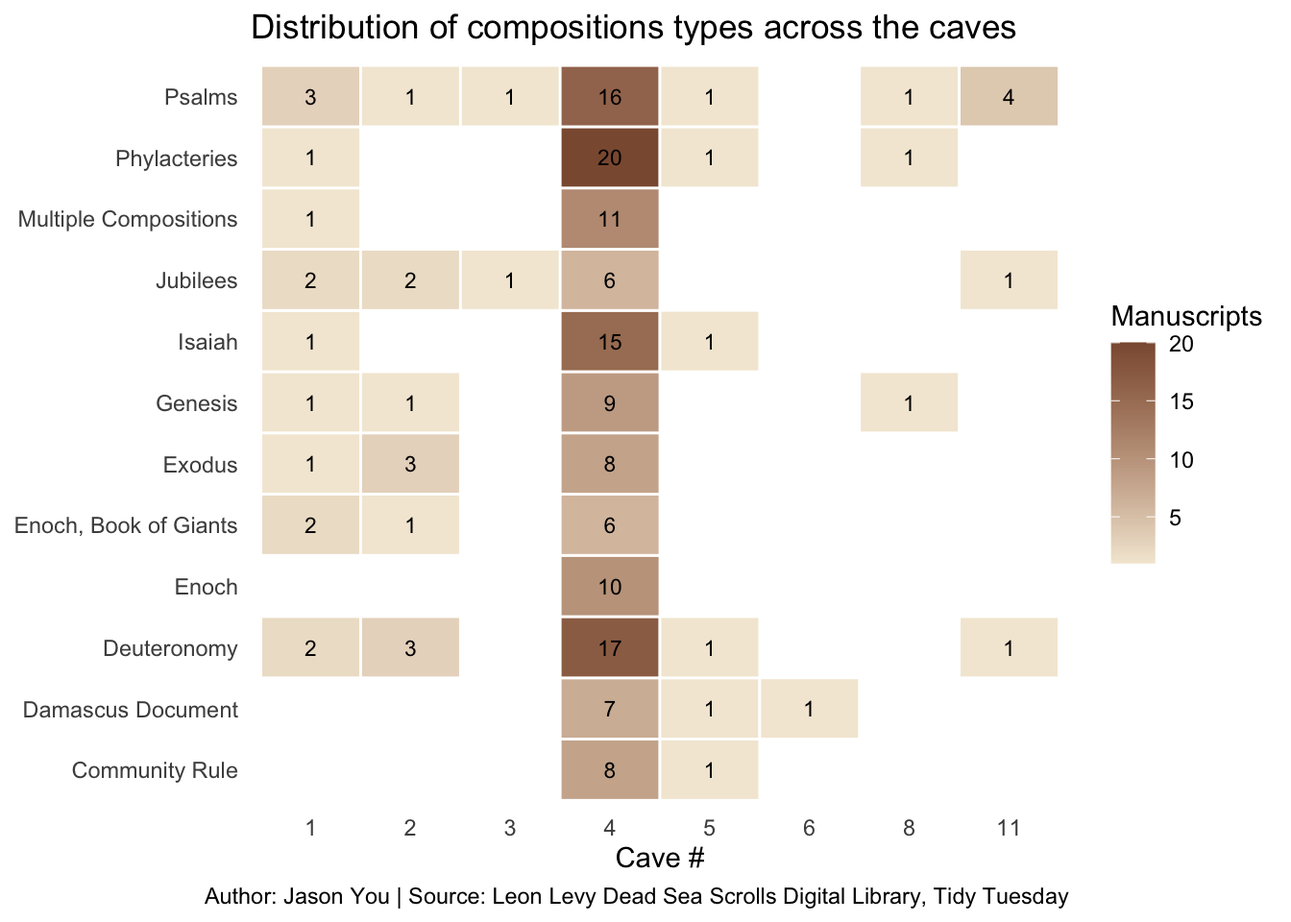
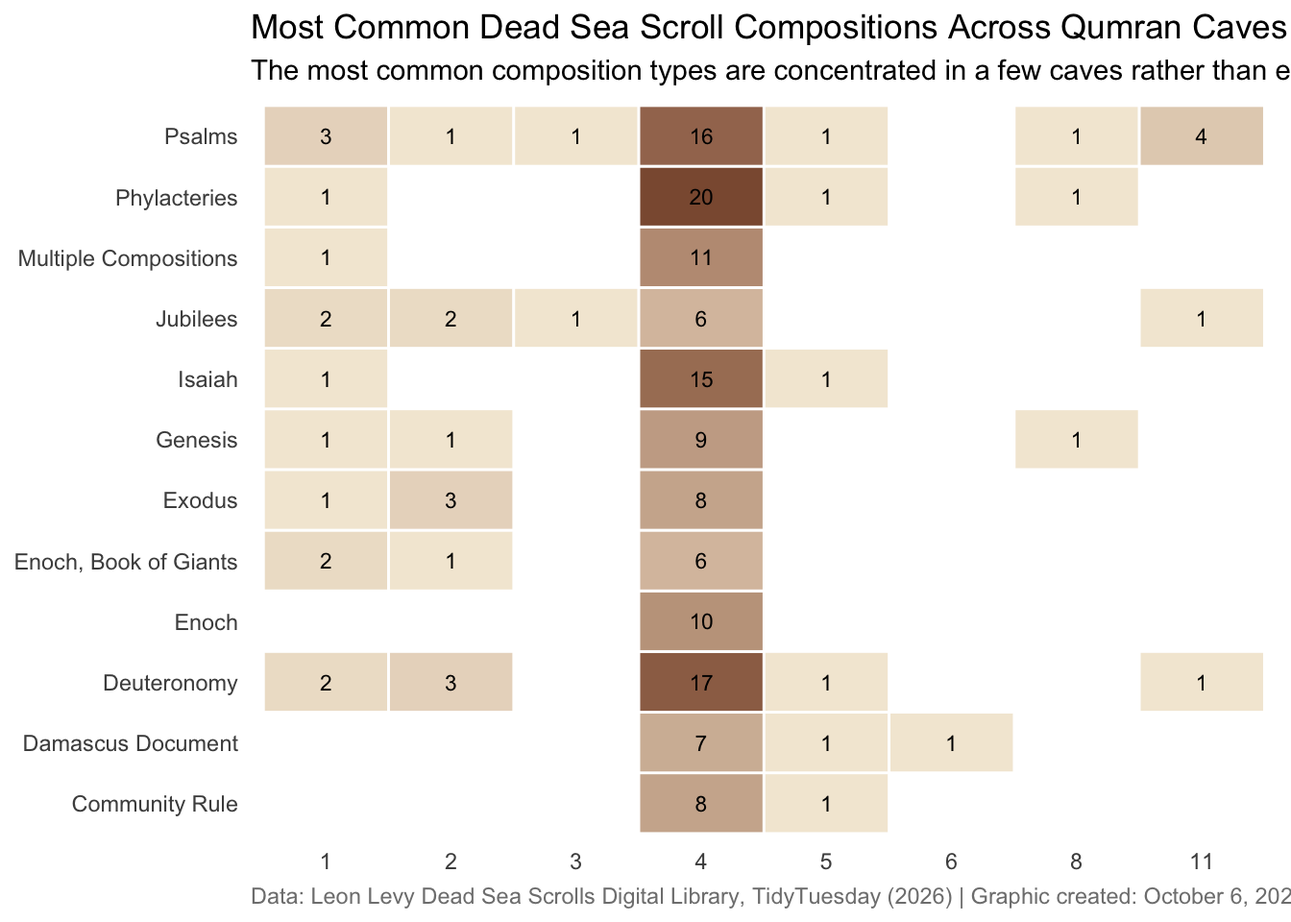
Built site for gh-pages

diff --git a/tt/hw03-tt.html b/tt/hw03-tt.html
@@ -585,34 +585,58 @@ cookieconsent.run({
 <span id="cb4-12"><a href="#cb4-12"></a><span class="fu">ggplot</span>(</span>
 <span id="cb4-13"><a href="#cb4-13"></a>  city_change,</span>
 <span id="cb4-14"><a href="#cb4-14"></a>  <span class="fu">aes</span>(</span>
-<span id="cb4-15"><a href="#cb4-15"></a>    <span class="at">y =</span> <span class="fu">fct_reorder</span>(cityName, change)</span>
-<span id="cb4-16"><a href="#cb4-16"></a>  )</span>
-<span id="cb4-17"><a href="#cb4-17"></a>) <span class="sc">+</span></span>
-<span id="cb4-18"><a href="#cb4-18"></a>  <span class="fu">geom_segment</span>(</span>
-<span id="cb4-19"><a href="#cb4-19"></a>    <span class="fu">aes</span>(</span>
-<span id="cb4-20"><a href="#cb4-20"></a>      <span class="at">x =</span> green_1990,</span>
-<span id="cb4-21"><a href="#cb4-21"></a>      <span class="at">xend =</span> green_2020,</span>
-<span id="cb4-22"><a href="#cb4-22"></a>      <span class="at">yend =</span> cityName</span>
-<span id="cb4-23"><a href="#cb4-23"></a>    ),</span>
-<span id="cb4-24"><a href="#cb4-24"></a>    <span class="at">linewidth =</span> <span class="dv">1</span>,</span>
-<span id="cb4-25"><a href="#cb4-25"></a>    <span class="at">arrow =</span> <span class="fu">arrow</span>(<span class="at">type =</span> <span class="st">"open"</span>, <span class="at">length =</span> <span class="fu">unit</span>(<span class="fl">0.1</span>, <span class="st">"inches"</span>))</span>
-<span id="cb4-26"><a href="#cb4-26"></a>  ) <span class="sc">+</span></span>
-<span id="cb4-27"><a href="#cb4-27"></a>  <span class="fu">geom_point</span>(</span>
-<span id="cb4-28"><a href="#cb4-28"></a>    <span class="fu">aes</span>(<span class="at">x =</span> green_1990),</span>
-<span id="cb4-29"><a href="#cb4-29"></a>    <span class="at">size =</span> <span class="dv">1</span></span>
-<span id="cb4-30"><a href="#cb4-30"></a>  ) <span class="sc">+</span></span>
-<span id="cb4-31"><a href="#cb4-31"></a>  <span class="fu">geom_point</span>(</span>
-<span id="cb4-32"><a href="#cb4-32"></a>    <span class="fu">aes</span>(<span class="at">x =</span> green_2020),</span>
-<span id="cb4-33"><a href="#cb4-33"></a>    <span class="at">size =</span> <span class="dv">1</span></span>
-<span id="cb4-34"><a href="#cb4-34"></a>  ) <span class="sc">+</span></span>
-<span id="cb4-35"><a href="#cb4-35"></a>  <span class="fu">labs</span>(</span>
-<span id="cb4-36"><a href="#cb4-36"></a>    <span class="at">title =</span> <span class="st">"Change in Chinese city's green-area share from 1990 to 2025"</span>,</span>
-<span id="cb4-37"><a href="#cb4-37"></a>    <span class="at">subtitle =</span> <span class="st">"Beijing is the only city that becomes greener"</span>,</span>
-<span id="cb4-38"><a href="#cb4-38"></a>    <span class="at">x =</span> <span class="st">"Green area (%)"</span>,</span>
-<span id="cb4-39"><a href="#cb4-39"></a>    <span class="at">y =</span> <span class="cn">NULL</span>,</span>
-<span id="cb4-40"><a href="#cb4-40"></a>    <span class="at">caption =</span> <span class="st">"Author: Jason You | Source: TidyTuesday, UN-Habitat Urban Indicators Database, Sept, 22nd, 2026"</span></span>
-<span id="cb4-41"><a href="#cb4-41"></a>  ) <span class="sc">+</span></span>
-<span id="cb4-42"><a href="#cb4-42"></a>  <span class="fu">theme_minimal</span>()</span></code></pre></div><button title="Copy to Clipboard" class="code-copy-button"><i class="bi"></i></button></div>
+<span id="cb4-15"><a href="#cb4-15"></a>    <span class="at">y =</span> <span class="fu">fct_reorder</span>(cityName, change),</span>
+<span id="cb4-16"><a href="#cb4-16"></a>    <span class="at">color =</span> change <span class="sc">&gt;</span> <span class="dv">0</span></span>
+<span id="cb4-17"><a href="#cb4-17"></a>  )</span>
+<span id="cb4-18"><a href="#cb4-18"></a>) <span class="sc">+</span></span>
+<span id="cb4-19"><a href="#cb4-19"></a>  <span class="fu">geom_segment</span>(</span>
+<span id="cb4-20"><a href="#cb4-20"></a>    <span class="fu">aes</span>(</span>
+<span id="cb4-21"><a href="#cb4-21"></a>      <span class="at">x =</span> green_1990,</span>
+<span id="cb4-22"><a href="#cb4-22"></a>      <span class="at">xend =</span> green_2020,</span>
+<span id="cb4-23"><a href="#cb4-23"></a>      <span class="at">yend =</span> cityName</span>
+<span id="cb4-24"><a href="#cb4-24"></a>    ),</span>
+<span id="cb4-25"><a href="#cb4-25"></a>    <span class="at">linewidth =</span> <span class="dv">1</span>,</span>
+<span id="cb4-26"><a href="#cb4-26"></a>    <span class="at">arrow =</span> <span class="fu">arrow</span>(<span class="at">type =</span> <span class="st">"open"</span>, <span class="at">length =</span> <span class="fu">unit</span>(<span class="fl">0.1</span>, <span class="st">"inches"</span>))</span>
+<span id="cb4-27"><a href="#cb4-27"></a>  ) <span class="sc">+</span></span>
+<span id="cb4-28"><a href="#cb4-28"></a>  <span class="fu">geom_text</span>(</span>
+<span id="cb4-29"><a href="#cb4-29"></a>    <span class="fu">aes</span>(</span>
+<span id="cb4-30"><a href="#cb4-30"></a>      <span class="at">x =</span> green_1990,</span>
+<span id="cb4-31"><a href="#cb4-31"></a>      <span class="at">label =</span> <span class="fu">paste0</span>(<span class="fu">round</span>(green_1990, <span class="dv">1</span>), <span class="st">"%"</span>)</span>
+<span id="cb4-32"><a href="#cb4-32"></a>    ),</span>
+<span id="cb4-33"><a href="#cb4-33"></a>    <span class="at">hjust =</span> <span class="fl">1.4</span>,</span>
+<span id="cb4-34"><a href="#cb4-34"></a>    <span class="at">size =</span> <span class="dv">3</span>,</span>
+<span id="cb4-35"><a href="#cb4-35"></a>    <span class="at">color =</span> <span class="st">"black"</span></span>
+<span id="cb4-36"><a href="#cb4-36"></a>  ) <span class="sc">+</span></span>
+<span id="cb4-37"><a href="#cb4-37"></a>  <span class="fu">geom_text</span>(</span>
+<span id="cb4-38"><a href="#cb4-38"></a>    <span class="fu">aes</span>(</span>
+<span id="cb4-39"><a href="#cb4-39"></a>      <span class="at">x =</span> green_2020,</span>
+<span id="cb4-40"><a href="#cb4-40"></a>      <span class="at">label =</span> <span class="fu">paste0</span>(<span class="fu">round</span>(green_2020, <span class="dv">1</span>), <span class="st">"%"</span>)</span>
+<span id="cb4-41"><a href="#cb4-41"></a>    ),</span>
+<span id="cb4-42"><a href="#cb4-42"></a>    <span class="at">hjust =</span> <span class="sc">-</span><span class="fl">0.4</span>,</span>
+<span id="cb4-43"><a href="#cb4-43"></a>    <span class="at">size =</span> <span class="dv">3</span>,</span>
+<span id="cb4-44"><a href="#cb4-44"></a>    <span class="at">color =</span> <span class="st">"black"</span></span>
+<span id="cb4-45"><a href="#cb4-45"></a>  ) <span class="sc">+</span></span>
+<span id="cb4-46"><a href="#cb4-46"></a>  <span class="fu">scale_color_manual</span>(</span>
+<span id="cb4-47"><a href="#cb4-47"></a>    <span class="at">values =</span> <span class="fu">c</span>(</span>
+<span id="cb4-48"><a href="#cb4-48"></a>      <span class="st">"TRUE"</span> <span class="ot">=</span> <span class="st">"darkgreen"</span>,</span>
+<span id="cb4-49"><a href="#cb4-49"></a>      <span class="st">"FALSE"</span> <span class="ot">=</span> <span class="st">"red"</span></span>
+<span id="cb4-50"><a href="#cb4-50"></a>    ),</span>
+<span id="cb4-51"><a href="#cb4-51"></a>    <span class="at">guide =</span> <span class="st">"none"</span></span>
+<span id="cb4-52"><a href="#cb4-52"></a>  ) <span class="sc">+</span></span>
+<span id="cb4-53"><a href="#cb4-53"></a>  <span class="fu">labs</span>(</span>
+<span id="cb4-54"><a href="#cb4-54"></a>    <span class="at">title =</span> <span class="st">"Change in Chinese Cities' Green-Area Share from 1990 to 2020"</span>,</span>
+<span id="cb4-55"><a href="#cb4-55"></a>    <span class="at">subtitle =</span> <span class="st">"Beijing is the only city that became greener"</span>,</span>
+<span id="cb4-56"><a href="#cb4-56"></a>    <span class="at">x =</span> <span class="cn">NULL</span>,</span>
+<span id="cb4-57"><a href="#cb4-57"></a>    <span class="at">y =</span> <span class="cn">NULL</span>,</span>
+<span id="cb4-58"><a href="#cb4-58"></a>    <span class="at">caption =</span> <span class="st">"Author: Jason You | Source: TidyTuesday, UN-Habitat Urban Indicators Database, September 22, 2026"</span></span>
+<span id="cb4-59"><a href="#cb4-59"></a>  ) <span class="sc">+</span></span>
+<span id="cb4-60"><a href="#cb4-60"></a>  <span class="fu">theme_minimal</span>() <span class="sc">+</span></span>
+<span id="cb4-61"><a href="#cb4-61"></a>  <span class="fu">theme</span>(</span>
+<span id="cb4-62"><a href="#cb4-62"></a>    <span class="at">panel.grid =</span> <span class="fu">element_blank</span>(),</span>
+<span id="cb4-63"><a href="#cb4-63"></a>    <span class="at">axis.text.x =</span> <span class="fu">element_blank</span>(),</span>
+<span id="cb4-64"><a href="#cb4-64"></a>    <span class="at">axis.ticks.x =</span> <span class="fu">element_blank</span>(),</span>
+<span id="cb4-65"><a href="#cb4-65"></a>    <span class="at">plot.caption =</span> <span class="fu">element_text</span>(<span class="at">hjust =</span> <span class="dv">0</span>)</span>
+<span id="cb4-66"><a href="#cb4-66"></a>  )</span></code></pre></div><button title="Copy to Clipboard" class="code-copy-button"><i class="bi"></i></button></div>
 </details><div class="cell-output-display">
 <div>
 <figure class="figure"><p><img src="hw03-tt_files/figure-html/unnamed-chunk-4-1.png" class="img-fluid figure-img" width="672"></p>
@@ -1174,35 +1198,59 @@ cookieconsent.run({
 <span id="cb5-80"><a href="#cb5-80"></a><span class="fu">ggplot</span>(</span>
 <span id="cb5-81"><a href="#cb5-81"></a>  city_change,</span>
 <span id="cb5-82"><a href="#cb5-82"></a>  <span class="fu">aes</span>(</span>
-<span id="cb5-83"><a href="#cb5-83"></a>    <span class="at">y =</span> <span class="fu">fct_reorder</span>(cityName, change)</span>
-<span id="cb5-84"><a href="#cb5-84"></a>  )</span>
-<span id="cb5-85"><a href="#cb5-85"></a>) <span class="sc">+</span></span>
-<span id="cb5-86"><a href="#cb5-86"></a>  <span class="fu">geom_segment</span>(</span>
-<span id="cb5-87"><a href="#cb5-87"></a>    <span class="fu">aes</span>(</span>
-<span id="cb5-88"><a href="#cb5-88"></a>      <span class="at">x =</span> green_1990,</span>
-<span id="cb5-89"><a href="#cb5-89"></a>      <span class="at">xend =</span> green_2020,</span>
-<span id="cb5-90"><a href="#cb5-90"></a>      <span class="at">yend =</span> cityName</span>
-<span id="cb5-91"><a href="#cb5-91"></a>    ),</span>
-<span id="cb5-92"><a href="#cb5-92"></a>    <span class="at">linewidth =</span> <span class="dv">1</span>,</span>
-<span id="cb5-93"><a href="#cb5-93"></a>    <span class="at">arrow =</span> <span class="fu">arrow</span>(<span class="at">type =</span> <span class="st">"open"</span>, <span class="at">length =</span> <span class="fu">unit</span>(<span class="fl">0.1</span>, <span class="st">"inches"</span>))</span>
-<span id="cb5-94"><a href="#cb5-94"></a>  ) <span class="sc">+</span></span>
-<span id="cb5-95"><a href="#cb5-95"></a>  <span class="fu">geom_point</span>(</span>
-<span id="cb5-96"><a href="#cb5-96"></a>    <span class="fu">aes</span>(<span class="at">x =</span> green_1990),</span>
-<span id="cb5-97"><a href="#cb5-97"></a>    <span class="at">size =</span> <span class="dv">1</span></span>
-<span id="cb5-98"><a href="#cb5-98"></a>  ) <span class="sc">+</span></span>
-<span id="cb5-99"><a href="#cb5-99"></a>  <span class="fu">geom_point</span>(</span>
-<span id="cb5-100"><a href="#cb5-100"></a>    <span class="fu">aes</span>(<span class="at">x =</span> green_2020),</span>
-<span id="cb5-101"><a href="#cb5-101"></a>    <span class="at">size =</span> <span class="dv">1</span></span>
-<span id="cb5-102"><a href="#cb5-102"></a>  ) <span class="sc">+</span></span>
-<span id="cb5-103"><a href="#cb5-103"></a>  <span class="fu">labs</span>(</span>
-<span id="cb5-104"><a href="#cb5-104"></a>    <span class="at">title =</span> <span class="st">"Change in Chinese city's green-area share from 1990 to 2025"</span>,</span>
-<span id="cb5-105"><a href="#cb5-105"></a>    <span class="at">subtitle =</span> <span class="st">"Beijing is the only city that becomes greener"</span>,</span>
-<span id="cb5-106"><a href="#cb5-106"></a>    <span class="at">x =</span> <span class="st">"Green area (%)"</span>,</span>
-<span id="cb5-107"><a href="#cb5-107"></a>    <span class="at">y =</span> <span class="cn">NULL</span>,</span>
-<span id="cb5-108"><a href="#cb5-108"></a>    <span class="at">caption =</span> <span class="st">"Author: Jason You | Source: TidyTuesday, UN-Habitat Urban Indicators Database, Sept, 22nd, 2026"</span></span>
-<span id="cb5-109"><a href="#cb5-109"></a>  ) <span class="sc">+</span></span>
-<span id="cb5-110"><a href="#cb5-110"></a>  <span class="fu">theme_minimal</span>()</span>
-<span id="cb5-111"><a href="#cb5-111"></a><span class="in">```</span></span>
+<span id="cb5-83"><a href="#cb5-83"></a>    <span class="at">y =</span> <span class="fu">fct_reorder</span>(cityName, change),</span>
+<span id="cb5-84"><a href="#cb5-84"></a>    <span class="at">color =</span> change <span class="sc">&gt;</span> <span class="dv">0</span></span>
+<span id="cb5-85"><a href="#cb5-85"></a>  )</span>
+<span id="cb5-86"><a href="#cb5-86"></a>) <span class="sc">+</span></span>
+<span id="cb5-87"><a href="#cb5-87"></a>  <span class="fu">geom_segment</span>(</span>
+<span id="cb5-88"><a href="#cb5-88"></a>    <span class="fu">aes</span>(</span>
+<span id="cb5-89"><a href="#cb5-89"></a>      <span class="at">x =</span> green_1990,</span>
+<span id="cb5-90"><a href="#cb5-90"></a>      <span class="at">xend =</span> green_2020,</span>
+<span id="cb5-91"><a href="#cb5-91"></a>      <span class="at">yend =</span> cityName</span>
+<span id="cb5-92"><a href="#cb5-92"></a>    ),</span>
+<span id="cb5-93"><a href="#cb5-93"></a>    <span class="at">linewidth =</span> <span class="dv">1</span>,</span>
+<span id="cb5-94"><a href="#cb5-94"></a>    <span class="at">arrow =</span> <span class="fu">arrow</span>(<span class="at">type =</span> <span class="st">"open"</span>, <span class="at">length =</span> <span class="fu">unit</span>(<span class="fl">0.1</span>, <span class="st">"inches"</span>))</span>
+<span id="cb5-95"><a href="#cb5-95"></a>  ) <span class="sc">+</span></span>
+<span id="cb5-96"><a href="#cb5-96"></a>  <span class="fu">geom_text</span>(</span>
+<span id="cb5-97"><a href="#cb5-97"></a>    <span class="fu">aes</span>(</span>
+<span id="cb5-98"><a href="#cb5-98"></a>      <span class="at">x =</span> green_1990,</span>
+<span id="cb5-99"><a href="#cb5-99"></a>      <span class="at">label =</span> <span class="fu">paste0</span>(<span class="fu">round</span>(green_1990, <span class="dv">1</span>), <span class="st">"%"</span>)</span>
+<span id="cb5-100"><a href="#cb5-100"></a>    ),</span>
+<span id="cb5-101"><a href="#cb5-101"></a>    <span class="at">hjust =</span> <span class="fl">1.4</span>,</span>
+<span id="cb5-102"><a href="#cb5-102"></a>    <span class="at">size =</span> <span class="dv">3</span>,</span>
+<span id="cb5-103"><a href="#cb5-103"></a>    <span class="at">color =</span> <span class="st">"black"</span></span>
+<span id="cb5-104"><a href="#cb5-104"></a>  ) <span class="sc">+</span></span>
+<span id="cb5-105"><a href="#cb5-105"></a>  <span class="fu">geom_text</span>(</span>
+<span id="cb5-106"><a href="#cb5-106"></a>    <span class="fu">aes</span>(</span>
+<span id="cb5-107"><a href="#cb5-107"></a>      <span class="at">x =</span> green_2020,</span>
+<span id="cb5-108"><a href="#cb5-108"></a>      <span class="at">label =</span> <span class="fu">paste0</span>(<span class="fu">round</span>(green_2020, <span class="dv">1</span>), <span class="st">"%"</span>)</span>
+<span id="cb5-109"><a href="#cb5-109"></a>    ),</span>
+<span id="cb5-110"><a href="#cb5-110"></a>    <span class="at">hjust =</span> <span class="sc">-</span><span class="fl">0.4</span>,</span>
+<span id="cb5-111"><a href="#cb5-111"></a>    <span class="at">size =</span> <span class="dv">3</span>,</span>
+<span id="cb5-112"><a href="#cb5-112"></a>    <span class="at">color =</span> <span class="st">"black"</span></span>
+<span id="cb5-113"><a href="#cb5-113"></a>  ) <span class="sc">+</span></span>
+<span id="cb5-114"><a href="#cb5-114"></a>  <span class="fu">scale_color_manual</span>(</span>
+<span id="cb5-115"><a href="#cb5-115"></a>    <span class="at">values =</span> <span class="fu">c</span>(</span>
+<span id="cb5-116"><a href="#cb5-116"></a>      <span class="st">"TRUE"</span> <span class="ot">=</span> <span class="st">"darkgreen"</span>,</span>
+<span id="cb5-117"><a href="#cb5-117"></a>      <span class="st">"FALSE"</span> <span class="ot">=</span> <span class="st">"red"</span></span>
+<span id="cb5-118"><a href="#cb5-118"></a>    ),</span>
+<span id="cb5-119"><a href="#cb5-119"></a>    <span class="at">guide =</span> <span class="st">"none"</span></span>
+<span id="cb5-120"><a href="#cb5-120"></a>  ) <span class="sc">+</span></span>
+<span id="cb5-121"><a href="#cb5-121"></a>  <span class="fu">labs</span>(</span>
+<span id="cb5-122"><a href="#cb5-122"></a>    <span class="at">title =</span> <span class="st">"Change in Chinese Cities' Green-Area Share from 1990 to 2020"</span>,</span>
+<span id="cb5-123"><a href="#cb5-123"></a>    <span class="at">subtitle =</span> <span class="st">"Beijing is the only city that became greener"</span>,</span>
+<span id="cb5-124"><a href="#cb5-124"></a>    <span class="at">x =</span> <span class="cn">NULL</span>,</span>
+<span id="cb5-125"><a href="#cb5-125"></a>    <span class="at">y =</span> <span class="cn">NULL</span>,</span>
+<span id="cb5-126"><a href="#cb5-126"></a>    <span class="at">caption =</span> <span class="st">"Author: Jason You | Source: TidyTuesday, UN-Habitat Urban Indicators Database, September 22, 2026"</span></span>
+<span id="cb5-127"><a href="#cb5-127"></a>  ) <span class="sc">+</span></span>
+<span id="cb5-128"><a href="#cb5-128"></a>  <span class="fu">theme_minimal</span>() <span class="sc">+</span></span>
+<span id="cb5-129"><a href="#cb5-129"></a>  <span class="fu">theme</span>(</span>
+<span id="cb5-130"><a href="#cb5-130"></a>    <span class="at">panel.grid =</span> <span class="fu">element_blank</span>(),</span>
+<span id="cb5-131"><a href="#cb5-131"></a>    <span class="at">axis.text.x =</span> <span class="fu">element_blank</span>(),</span>
+<span id="cb5-132"><a href="#cb5-132"></a>    <span class="at">axis.ticks.x =</span> <span class="fu">element_blank</span>(),</span>
+<span id="cb5-133"><a href="#cb5-133"></a>    <span class="at">plot.caption =</span> <span class="fu">element_text</span>(<span class="at">hjust =</span> <span class="dv">0</span>)</span>
+<span id="cb5-134"><a href="#cb5-134"></a>  )</span>
+<span id="cb5-135"><a href="#cb5-135"></a><span class="in">```</span></span>
 </code></pre></div><button title="Copy to Clipboard" class="code-copy-button" data-in-quarto-modal=""><i class="bi"></i></button></div>
 </div></div></div></div></div>
 </div> <!-- /content -->

diff --git a/tt/hw02-tt.html b/tt/hw02-tt.html
@@ -600,21 +600,28 @@ cookieconsent.run({
 <span id="cb4-8"><a href="#cb4-8"></a></span>
 <span id="cb4-9"><a href="#cb4-9"></a><span class="fu">ggplot</span>(</span>
 <span id="cb4-10"><a href="#cb4-10"></a>  cave_compositions,</span>
-<span id="cb4-11"><a href="#cb4-11"></a>  <span class="fu">aes</span>(<span class="at">x =</span> <span class="fu">factor</span>(cave), <span class="at">y =</span> composition, <span class="at">fill =</span> n)) <span class="sc">+</span></span>
-<span id="cb4-12"><a href="#cb4-12"></a>  <span class="fu">geom_tile</span>(<span class="at">color =</span> <span class="st">"white"</span>, <span class="at">linewidth =</span> <span class="fl">0.5</span>) <span class="sc">+</span></span>
-<span id="cb4-13"><a href="#cb4-13"></a>  <span class="fu">geom_text</span>(<span class="fu">aes</span>(<span class="at">label =</span> n), <span class="at">size =</span> <span class="dv">3</span>) <span class="sc">+</span></span>
-<span id="cb4-14"><a href="#cb4-14"></a>  <span class="fu">scale_fill_gradient</span>(<span class="at">low =</span> <span class="st">"#F3E9D7"</span>, <span class="at">high =</span> <span class="st">"#8C5A3F"</span>) <span class="sc">+</span></span>
-<span id="cb4-15"><a href="#cb4-15"></a>  <span class="fu">labs</span>(</span>
-<span id="cb4-16"><a href="#cb4-16"></a>    <span class="at">title =</span> <span class="st">"Distribution of compositions types across the caves"</span>,</span>
-<span id="cb4-17"><a href="#cb4-17"></a>    <span class="at">x =</span> <span class="st">"Cave #"</span>,</span>
-<span id="cb4-18"><a href="#cb4-18"></a>    <span class="at">y =</span> <span class="cn">NULL</span>,</span>
-<span id="cb4-19"><a href="#cb4-19"></a>    <span class="at">fill =</span> <span class="st">"Manuscripts"</span>,</span>
-<span id="cb4-20"><a href="#cb4-20"></a>    <span class="at">caption =</span> <span class="st">"Author: Jason You | Source: Leon Levy Dead Sea Scrolls Digital Library, Tidy Tuesday"</span></span>
-<span id="cb4-21"><a href="#cb4-21"></a>  ) <span class="sc">+</span></span>
-<span id="cb4-22"><a href="#cb4-22"></a>  <span class="fu">theme_minimal</span>() <span class="sc">+</span></span>
-<span id="cb4-23"><a href="#cb4-23"></a>  <span class="fu">theme</span>(</span>
-<span id="cb4-24"><a href="#cb4-24"></a>    <span class="at">panel.grid =</span> <span class="fu">element_blank</span>()</span>
-<span id="cb4-25"><a href="#cb4-25"></a>  )</span></code></pre></div><button title="Copy to Clipboard" class="code-copy-button"><i class="bi"></i></button></div>
+<span id="cb4-11"><a href="#cb4-11"></a>  <span class="fu">aes</span>(<span class="at">x =</span> <span class="fu">factor</span>(cave), <span class="at">y =</span> composition, <span class="at">fill =</span> n)</span>
+<span id="cb4-12"><a href="#cb4-12"></a>) <span class="sc">+</span></span>
+<span id="cb4-13"><a href="#cb4-13"></a>  <span class="fu">geom_tile</span>(<span class="at">color =</span> <span class="st">"white"</span>, <span class="at">linewidth =</span> <span class="fl">0.5</span>) <span class="sc">+</span></span>
+<span id="cb4-14"><a href="#cb4-14"></a>  <span class="fu">geom_text</span>(<span class="fu">aes</span>(<span class="at">label =</span> n), <span class="at">size =</span> <span class="dv">3</span>) <span class="sc">+</span></span>
+<span id="cb4-15"><a href="#cb4-15"></a>  <span class="fu">scale_fill_gradient</span>(<span class="at">low =</span> <span class="st">"#F3E9D7"</span>, <span class="at">high =</span> <span class="st">"#8C5A3F"</span>) <span class="sc">+</span></span>
+<span id="cb4-16"><a href="#cb4-16"></a>  <span class="fu">labs</span>(</span>
+<span id="cb4-17"><a href="#cb4-17"></a>    <span class="at">title =</span> <span class="st">"Most Common Dead Sea Scroll Compositions Across Qumran Caves"</span>,</span>
+<span id="cb4-18"><a href="#cb4-18"></a>    <span class="at">subtitle =</span> <span class="st">"The most common composition types are concentrated in a few caves rather than evenly distributed across Qumran."</span>,</span>
+<span id="cb4-19"><a href="#cb4-19"></a>    <span class="at">x =</span> <span class="cn">NULL</span>,</span>
+<span id="cb4-20"><a href="#cb4-20"></a>    <span class="at">y =</span> <span class="cn">NULL</span>,</span>
+<span id="cb4-21"><a href="#cb4-21"></a>    <span class="at">fill =</span> <span class="cn">NULL</span>,</span>
+<span id="cb4-22"><a href="#cb4-22"></a>    <span class="at">caption =</span> <span class="st">"Data: Leon Levy Dead Sea Scrolls Digital Library, TidyTuesday (2026) | Graphic created: October 6, 2026 | Author: Jason You"</span></span>
+<span id="cb4-23"><a href="#cb4-23"></a>  ) <span class="sc">+</span></span>
+<span id="cb4-24"><a href="#cb4-24"></a>  <span class="fu">guides</span>(<span class="at">fill =</span> <span class="st">"none"</span>) <span class="sc">+</span></span>
+<span id="cb4-25"><a href="#cb4-25"></a>  <span class="fu">theme_minimal</span>() <span class="sc">+</span></span>
+<span id="cb4-26"><a href="#cb4-26"></a>  <span class="fu">theme</span>(</span>
+<span id="cb4-27"><a href="#cb4-27"></a>    <span class="at">panel.grid =</span> <span class="fu">element_blank</span>(),</span>
+<span id="cb4-28"><a href="#cb4-28"></a>    <span class="at">plot.caption =</span> <span class="fu">element_text</span>(</span>
+<span id="cb4-29"><a href="#cb4-29"></a>      <span class="at">hjust =</span> <span class="dv">0</span>,</span>
+<span id="cb4-30"><a href="#cb4-30"></a>      <span class="at">color =</span> <span class="st">"gray50"</span></span>
+<span id="cb4-31"><a href="#cb4-31"></a>    )</span>
+<span id="cb4-32"><a href="#cb4-32"></a>  )</span></code></pre></div><button title="Copy to Clipboard" class="code-copy-button"><i class="bi"></i></button></div>
 </details><div class="cell-output-display">
 <div>
 <figure class="figure"><p><img src="hw02-tt_files/figure-html/unnamed-chunk-3-1.png" class="img-fluid figure-img" width="672"></p>
@@ -1179,24 +1186,31 @@ cookieconsent.run({
 <span id="cb5-75"><a href="#cb5-75"></a></span>
 <span id="cb5-76"><a href="#cb5-76"></a><span class="fu">ggplot</span>(</span>
 <span id="cb5-77"><a href="#cb5-77"></a>  cave_compositions,</span>
-<span id="cb5-78"><a href="#cb5-78"></a>  <span class="fu">aes</span>(<span class="at">x =</span> <span class="fu">factor</span>(cave), <span class="at">y =</span> composition, <span class="at">fill =</span> n)) <span class="sc">+</span></span>
-<span id="cb5-79"><a href="#cb5-79"></a>  <span class="fu">geom_tile</span>(<span class="at">color =</span> <span class="st">"white"</span>, <span class="at">linewidth =</span> <span class="fl">0.5</span>) <span class="sc">+</span></span>
-<span id="cb5-80"><a href="#cb5-80"></a>  <span class="fu">geom_text</span>(<span class="fu">aes</span>(<span class="at">label =</span> n), <span class="at">size =</span> <span class="dv">3</span>) <span class="sc">+</span></span>
-<span id="cb5-81"><a href="#cb5-81"></a>  <span class="fu">scale_fill_gradient</span>(<span class="at">low =</span> <span class="st">"#F3E9D7"</span>, <span class="at">high =</span> <span class="st">"#8C5A3F"</span>) <span class="sc">+</span></span>
-<span id="cb5-82"><a href="#cb5-82"></a>  <span class="fu">labs</span>(</span>
-<span id="cb5-83"><a href="#cb5-83"></a>    <span class="at">title =</span> <span class="st">"Distribution of compositions types across the caves"</span>,</span>
-<span id="cb5-84"><a href="#cb5-84"></a>    <span class="at">x =</span> <span class="st">"Cave #"</span>,</span>
-<span id="cb5-85"><a href="#cb5-85"></a>    <span class="at">y =</span> <span class="cn">NULL</span>,</span>
-<span id="cb5-86"><a href="#cb5-86"></a>    <span class="at">fill =</span> <span class="st">"Manuscripts"</span>,</span>
-<span id="cb5-87"><a href="#cb5-87"></a>    <span class="at">caption =</span> <span class="st">"Author: Jason You | Source: Leon Levy Dead Sea Scrolls Digital Library, Tidy Tuesday"</span></span>
-<span id="cb5-88"><a href="#cb5-88"></a>  ) <span class="sc">+</span></span>
-<span id="cb5-89"><a href="#cb5-89"></a>  <span class="fu">theme_minimal</span>() <span class="sc">+</span></span>
-<span id="cb5-90"><a href="#cb5-90"></a>  <span class="fu">theme</span>(</span>
-<span id="cb5-91"><a href="#cb5-91"></a>    <span class="at">panel.grid =</span> <span class="fu">element_blank</span>()</span>
-<span id="cb5-92"><a href="#cb5-92"></a>  )</span>
-<span id="cb5-93"><a href="#cb5-93"></a><span class="in">```</span></span>
-<span id="cb5-94"><a href="#cb5-94"></a></span>
-<span id="cb5-95"><a href="#cb5-95"></a><span class="at">&gt; This graph shows that cave 4 have the most amount of scrolls, with all of the types of compositions and the most amount of each of them, while Cave 6 have the least amount of scolls, only one Damascus Document.</span></span>
+<span id="cb5-78"><a href="#cb5-78"></a>  <span class="fu">aes</span>(<span class="at">x =</span> <span class="fu">factor</span>(cave), <span class="at">y =</span> composition, <span class="at">fill =</span> n)</span>
+<span id="cb5-79"><a href="#cb5-79"></a>) <span class="sc">+</span></span>
+<span id="cb5-80"><a href="#cb5-80"></a>  <span class="fu">geom_tile</span>(<span class="at">color =</span> <span class="st">"white"</span>, <span class="at">linewidth =</span> <span class="fl">0.5</span>) <span class="sc">+</span></span>
+<span id="cb5-81"><a href="#cb5-81"></a>  <span class="fu">geom_text</span>(<span class="fu">aes</span>(<span class="at">label =</span> n), <span class="at">size =</span> <span class="dv">3</span>) <span class="sc">+</span></span>
+<span id="cb5-82"><a href="#cb5-82"></a>  <span class="fu">scale_fill_gradient</span>(<span class="at">low =</span> <span class="st">"#F3E9D7"</span>, <span class="at">high =</span> <span class="st">"#8C5A3F"</span>) <span class="sc">+</span></span>
+<span id="cb5-83"><a href="#cb5-83"></a>  <span class="fu">labs</span>(</span>
+<span id="cb5-84"><a href="#cb5-84"></a>    <span class="at">title =</span> <span class="st">"Most Common Dead Sea Scroll Compositions Across Qumran Caves"</span>,</span>
+<span id="cb5-85"><a href="#cb5-85"></a>    <span class="at">subtitle =</span> <span class="st">"The most common composition types are concentrated in a few caves rather than evenly distributed across Qumran."</span>,</span>
+<span id="cb5-86"><a href="#cb5-86"></a>    <span class="at">x =</span> <span class="cn">NULL</span>,</span>
+<span id="cb5-87"><a href="#cb5-87"></a>    <span class="at">y =</span> <span class="cn">NULL</span>,</span>
+<span id="cb5-88"><a href="#cb5-88"></a>    <span class="at">fill =</span> <span class="cn">NULL</span>,</span>
+<span id="cb5-89"><a href="#cb5-89"></a>    <span class="at">caption =</span> <span class="st">"Data: Leon Levy Dead Sea Scrolls Digital Library, TidyTuesday (2026) | Graphic created: October 6, 2026 | Author: Jason You"</span></span>
+<span id="cb5-90"><a href="#cb5-90"></a>  ) <span class="sc">+</span></span>
+<span id="cb5-91"><a href="#cb5-91"></a>  <span class="fu">guides</span>(<span class="at">fill =</span> <span class="st">"none"</span>) <span class="sc">+</span></span>
+<span id="cb5-92"><a href="#cb5-92"></a>  <span class="fu">theme_minimal</span>() <span class="sc">+</span></span>
+<span id="cb5-93"><a href="#cb5-93"></a>  <span class="fu">theme</span>(</span>
+<span id="cb5-94"><a href="#cb5-94"></a>    <span class="at">panel.grid =</span> <span class="fu">element_blank</span>(),</span>
+<span id="cb5-95"><a href="#cb5-95"></a>    <span class="at">plot.caption =</span> <span class="fu">element_text</span>(</span>
+<span id="cb5-96"><a href="#cb5-96"></a>      <span class="at">hjust =</span> <span class="dv">0</span>,</span>
+<span id="cb5-97"><a href="#cb5-97"></a>      <span class="at">color =</span> <span class="st">"gray50"</span></span>
+<span id="cb5-98"><a href="#cb5-98"></a>    )</span>
+<span id="cb5-99"><a href="#cb5-99"></a>  )</span>
+<span id="cb5-100"><a href="#cb5-100"></a><span class="in">```</span></span>
+<span id="cb5-101"><a href="#cb5-101"></a></span>
+<span id="cb5-102"><a href="#cb5-102"></a><span class="at">&gt; This graph shows that cave 4 have the most amount of scrolls, with all of the types of compositions and the most amount of each of them, while Cave 6 have the least amount of scolls, only one Damascus Document.</span></span>
 </code></pre></div><button title="Copy to Clipboard" class="code-copy-button" data-in-quarto-modal=""><i class="bi"></i></button></div>
 </div></div></div></div></div>
 </div> <!-- /content -->

diff --git a/ica/07-wrangling-2.html b/ica/07-wrangling-2.html
@@ -683,8 +683,8 @@ cookieconsent.run({
 <div class="cell">
 <details class="code-fold"><summary>Code</summary><div class="code-copy-outer-scaffold"><div class="sourceCode cell-code" id="cb33"><pre class="sourceCode numberSource r number-lines code-with-copy"><code class="sourceCode r"><span id="cb33-1"><a href="#cb33-1"></a><span class="fu">str_view</span>(string1, <span class="at">html =</span> <span class="cn">TRUE</span>)</span></code></pre></div><button title="Copy to Clipboard" class="code-copy-button"><i class="bi"></i></button></div>
 </details><div class="cell-output-display">
-<div class="str_view html-widget html-fill-item" id="htmlwidget-0c3f37f5a0ee5536f193" style="width:960px;height:100%;"></div>
-<script type="application/json" data-for="htmlwidget-0c3f37f5a0ee5536f193">{"x":{"html":"<ul>\n  <li><pre>Record temp:<span class='special'>\t<\/span>102<\/pre><\/li>\n<\/ul>"},"evals":[],"jsHooks":[]}</script>
+<div class="str_view html-widget html-fill-item" id="htmlwidget-ee33703f263d8757a34f" style="width:960px;height:100%;"></div>
+<script type="application/json" data-for="htmlwidget-ee33703f263d8757a34f">{"x":{"html":"<ul>\n  <li><pre>Record temp:<span class='special'>\t<\/span>102<\/pre><\/li>\n<\/ul>"},"evals":[],"jsHooks":[]}</script>
 </div>
 </div>
 </section><section id="combine" class="level3"><h3 class="anchored" data-anchor-id="combine">Combine</h3>
@@ -853,32 +853,32 @@ cookieconsent.run({
 <span id="cb59-2"><a href="#cb59-2"></a><span class="fu">data</span>(fruit)</span>
 <span id="cb59-3"><a href="#cb59-3"></a><span class="fu">sample</span>(fruit, <span class="dv">10</span>)</span></code></pre></div><button title="Copy to Clipboard" class="code-copy-button"><i class="bi"></i></button></div>
 </details><div class="cell-output cell-output-stdout">
-<pre><code> [1] "lemon"        "jambul"       "goji berry"   "raisin"       "mango"       
- [6] "grapefruit"   "kumquat"      "date"         "canary melon" "rock melon"  </code></pre>
+<pre><code> [1] "peach"        "chili pepper" "damson"       "durian"       "goji berry"  
+ [6] "clementine"   "currant"      "gooseberry"   "apricot"      "jujube"      </code></pre>
 </div>
 </div>
 <div class="cell">
 <details class="code-fold"><summary>Code</summary><div class="code-copy-outer-scaffold"><div class="sourceCode cell-code" id="cb61"><pre class="sourceCode numberSource r number-lines code-with-copy"><code class="sourceCode r"><span id="cb61-1"><a href="#cb61-1"></a><span class="fu">data</span>(words)</span>
 <span id="cb61-2"><a href="#cb61-2"></a><span class="fu">sample</span>(words, <span class="dv">10</span>)</span></code></pre></div><button title="Copy to Clipboard" class="code-copy-button"><i class="bi"></i></button></div>
 </details><div class="cell-output cell-output-stdout">
-<pre><code> [1] "well"       "case"       "thou"       "america"    "close"     
- [6] "of"         "shut"       "protect"    "full"       "difference"</code></pre>
+<pre><code> [1] "build"       "opportunity" "plan"        "be"          "individual" 
+ [6] "remember"    "arrange"     "far"         "eye"         "slow"       </code></pre>
 </div>
 </div>
 <div class="cell">
 <details class="code-fold"><summary>Code</summary><div class="code-copy-outer-scaffold"><div class="sourceCode cell-code" id="cb63"><pre class="sourceCode numberSource r number-lines code-with-copy"><code class="sourceCode r"><span id="cb63-1"><a href="#cb63-1"></a><span class="fu">data</span>(sentences)</span>
 <span id="cb63-2"><a href="#cb63-2"></a><span class="fu">sample</span>(sentences, <span class="dv">10</span>)</span></code></pre></div><button title="Copy to Clipboard" class="code-copy-button"><i class="bi"></i></button></div>
 </details><div class="cell-output cell-output-stdout">
-<pre><code> [1] "The theft of the pearl pin was kept secret."
- [2] "Burn peat after the logs give out."         
- [3] "A clean neck means a neat collar."          
- [4] "The boss ran the show with a watchful eye." 
- [5] "A quart of milk is water for the most part."
- [6] "A castle built from sand fails to endure."  
- [7] "We don't like to admit our small faults."   
- [8] "A wisp of cloud hung in the blue air."      
- [9] "Slide the box into that empty space."       
-[10] "The brass tube circled the high wall."      </code></pre>
+<pre><code> [1] "In the rear of the ground floor was a large passage."
+ [2] "Yell and clap as the curtain slides back."           
+ [3] "Kick the ball straight and follow through."          
+ [4] "A lame back kept his score low."                     
+ [5] "The leaf drifts along with a slow spin."             
+ [6] "Three for a dime, the young peddler cried."          
+ [7] "The wharf could be seen at the farther shore."       
+ [8] "The black trunk fell from the landing."              
+ [9] "The child almost hurt the small dog."                
+[10] "Smoky fires lack flame and heat."                    </code></pre>
 </div>
 </div>
 <p>We can use <code>str_view()</code> with the <code>pattern</code> argument to see what parts of a string match the regex supplied in the <code>pattern</code> argument. (Matches are enclosed in <code>&lt;&gt;</code>.)</p>

diff --git a/index.html b/index.html
@@ -508,7 +508,7 @@ cookieconsent.run({
     <div>
     <div class="quarto-title-meta-heading">Published</div>
     <div class="quarto-title-meta-contents">
-      <p class="date">Monday, October 5, 2026</p>
+      <p class="date">Monday, October 12, 2026</p>
     </div>
   </div>
   
@@ -520,8 +520,8 @@ cookieconsent.run({
 </header><p>Welcome to my online portfolio for COMP/STAT112 course taken at <a href="https://www.macalester.edu/">Macalester College</a>. Please, use the side bar on the left for navigation.</p>
 <div class="cell">
 <div class="cell-output-display">
-<div class="wordcloud2 html-widget html-fill-item" id="htmlwidget-f891ca68b348cf8b103e" style="width:100%;height:464px;"></div>
-<script type="application/json" data-for="htmlwidget-f891ca68b348cf8b103e">{"x":{"word":["welcome","to","comp","stat","212","mac","st paul"],"freq":[10,2,8,8,8,6,6],"fontFamily":"Segoe UI","fontWeight":"bold","color":"random-dark","minSize":0,"weightFactor":18,"backgroundColor":"white","gridSize":0,"minRotation":-0.7853981633974483,"maxRotation":0.7853981633974483,"shuffle":true,"rotateRatio":0.4,"shape":"cardioid","ellipticity":0.65,"figBase64":null,"hover":null},"evals":[],"jsHooks":{"render":[{"code":"function(el,x){\n                        console.log(123);\n                        if(!iii){\n                          window.location.reload();\n                          iii = False;\n\n                        }\n  }","data":null}]}}</script>
+<div class="wordcloud2 html-widget html-fill-item" id="htmlwidget-a0ef61f4872d1233533e" style="width:100%;height:464px;"></div>
+<script type="application/json" data-for="htmlwidget-a0ef61f4872d1233533e">{"x":{"word":["welcome","to","comp","stat","212","mac","st paul"],"freq":[10,2,8,8,8,6,6],"fontFamily":"Segoe UI","fontWeight":"bold","color":"random-dark","minSize":0,"weightFactor":18,"backgroundColor":"white","gridSize":0,"minRotation":-0.7853981633974483,"maxRotation":0.7853981633974483,"shuffle":true,"rotateRatio":0.4,"shape":"cardioid","ellipticity":0.65,"figBase64":null,"hover":null},"evals":[],"jsHooks":{"render":[{"code":"function(el,x){\n                        console.log(123);\n                        if(!iii){\n                          window.location.reload();\n                          iii = False;\n\n                        }\n  }","data":null}]}}</script>
 </div>
 </div>
 

diff --git a/pcl/pcl.html b/pcl/pcl.html
@@ -544,7 +544,7 @@ cookieconsent.run({
 </section>
 <section id="quarto" class="level2">
 <h2 class="anchored" data-anchor-id="quarto">Quarto</h2>
-<p><img src="0810-quarto.jpeg" class="img-fluid" alt="from qmd4sci.njtierney.com"> <img src="0909.png" class="img-fluid"> <img src="0914.png" class="img-fluid"> <img src="0918.png" class="img-fluid"> <img src="0923.png" class="img-fluid"> <img src="0930.png" class="img-fluid"> <img src="1002.png" class="img-fluid"> <img src="1005.png" class="img-fluid"></p>
+<p><img src="0810-quarto.jpeg" class="img-fluid" alt="from qmd4sci.njtierney.com"> <img src="0909.png" class="img-fluid"> <img src="0914.png" class="img-fluid"> <img src="0918.png" class="img-fluid"> <img src="0923.png" class="img-fluid"> <img src="0930.png" class="img-fluid"> <img src="1002.png" class="img-fluid"> <img src="1005.png" class="img-fluid"> <img src="1007.png" class="img-fluid"> <img src="1012.png" class="img-fluid"></p>
 
 
 <!-- -->
@@ -1050,7 +1050,9 @@ cookieconsent.run({
 <span id="cb1-15"><a href="#cb1-15"></a><span class="al">![](0923.png)</span></span>
 <span id="cb1-16"><a href="#cb1-16"></a><span class="al">![](0930.png)</span></span>
 <span id="cb1-17"><a href="#cb1-17"></a><span class="al">![](1002.png)</span></span>
-<span id="cb1-18"><a href="#cb1-18"></a><span class="al">![](1005.png)</span></span></code></pre></div><button title="Copy to Clipboard" class="code-copy-button" data-in-quarto-modal=""><i class="bi"></i></button></div>
+<span id="cb1-18"><a href="#cb1-18"></a><span class="al">![](1005.png)</span></span>
+<span id="cb1-19"><a href="#cb1-19"></a><span class="al">![](1007.png)</span></span>
+<span id="cb1-20"><a href="#cb1-20"></a><span class="al">![](1012.png)</span></span></code></pre></div><button title="Copy to Clipboard" class="code-copy-button" data-in-quarto-modal=""><i class="bi"></i></button></div>
 </div></div></div></div></div>
 </div> <!-- /content -->
 <footer class="footer">

diff --git a/ica/08-missing-data.html b/ica/08-missing-data.html
@@ -981,7 +981,7 @@ cookieconsent.run({
 <span id="cb18-29"><a href="#cb18-29"></a>})</span></code></pre></div><button title="Copy to Clipboard" class="code-copy-button"><i class="bi"></i></button></div>
 </details><div class="cell-output cell-output-stdout">
 <pre><code>   user  system elapsed 
-  0.833   0.040   0.919 </code></pre>
+  0.829   0.041   1.035 </code></pre>
 </div>
 </div>
 </section><section id="summarize-results" class="level3"><h3 class="anchored" data-anchor-id="summarize-results">Summarize Results</h3>

diff --git a/404.html b/404.html
@@ -7,7 +7,7 @@
 <meta name="viewport" content="width=device-width, initial-scale=1.0, user-scalable=yes">
 
 
-<title>quarto-inputd7e84deda6a63e62 – COMP/STAT212 Portfolio</title>
+<title>quarto-input848480b6a35899f2 – COMP/STAT212 Portfolio</title>
 <style>
 /* Default styles provided by pandoc.
 ** See https://pandoc.org/MANUAL.html#variables-for-html for config info.
